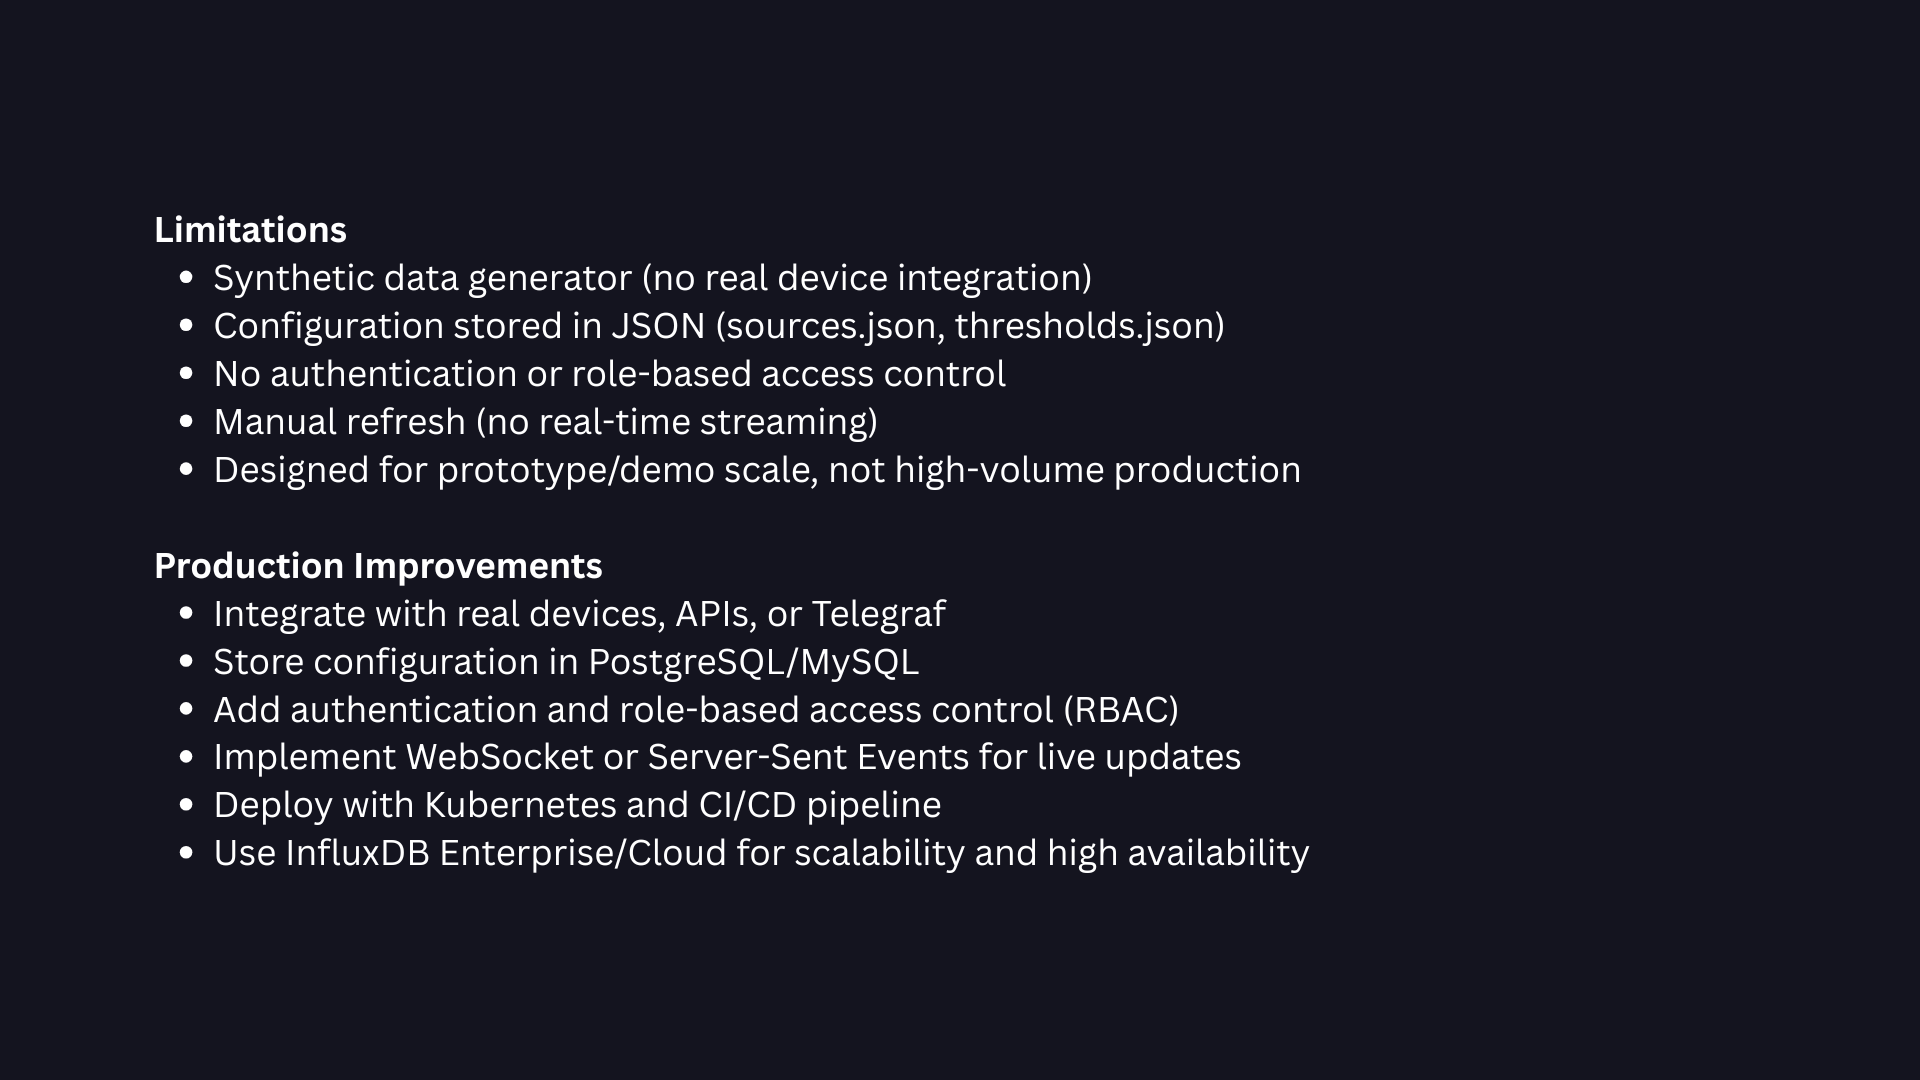
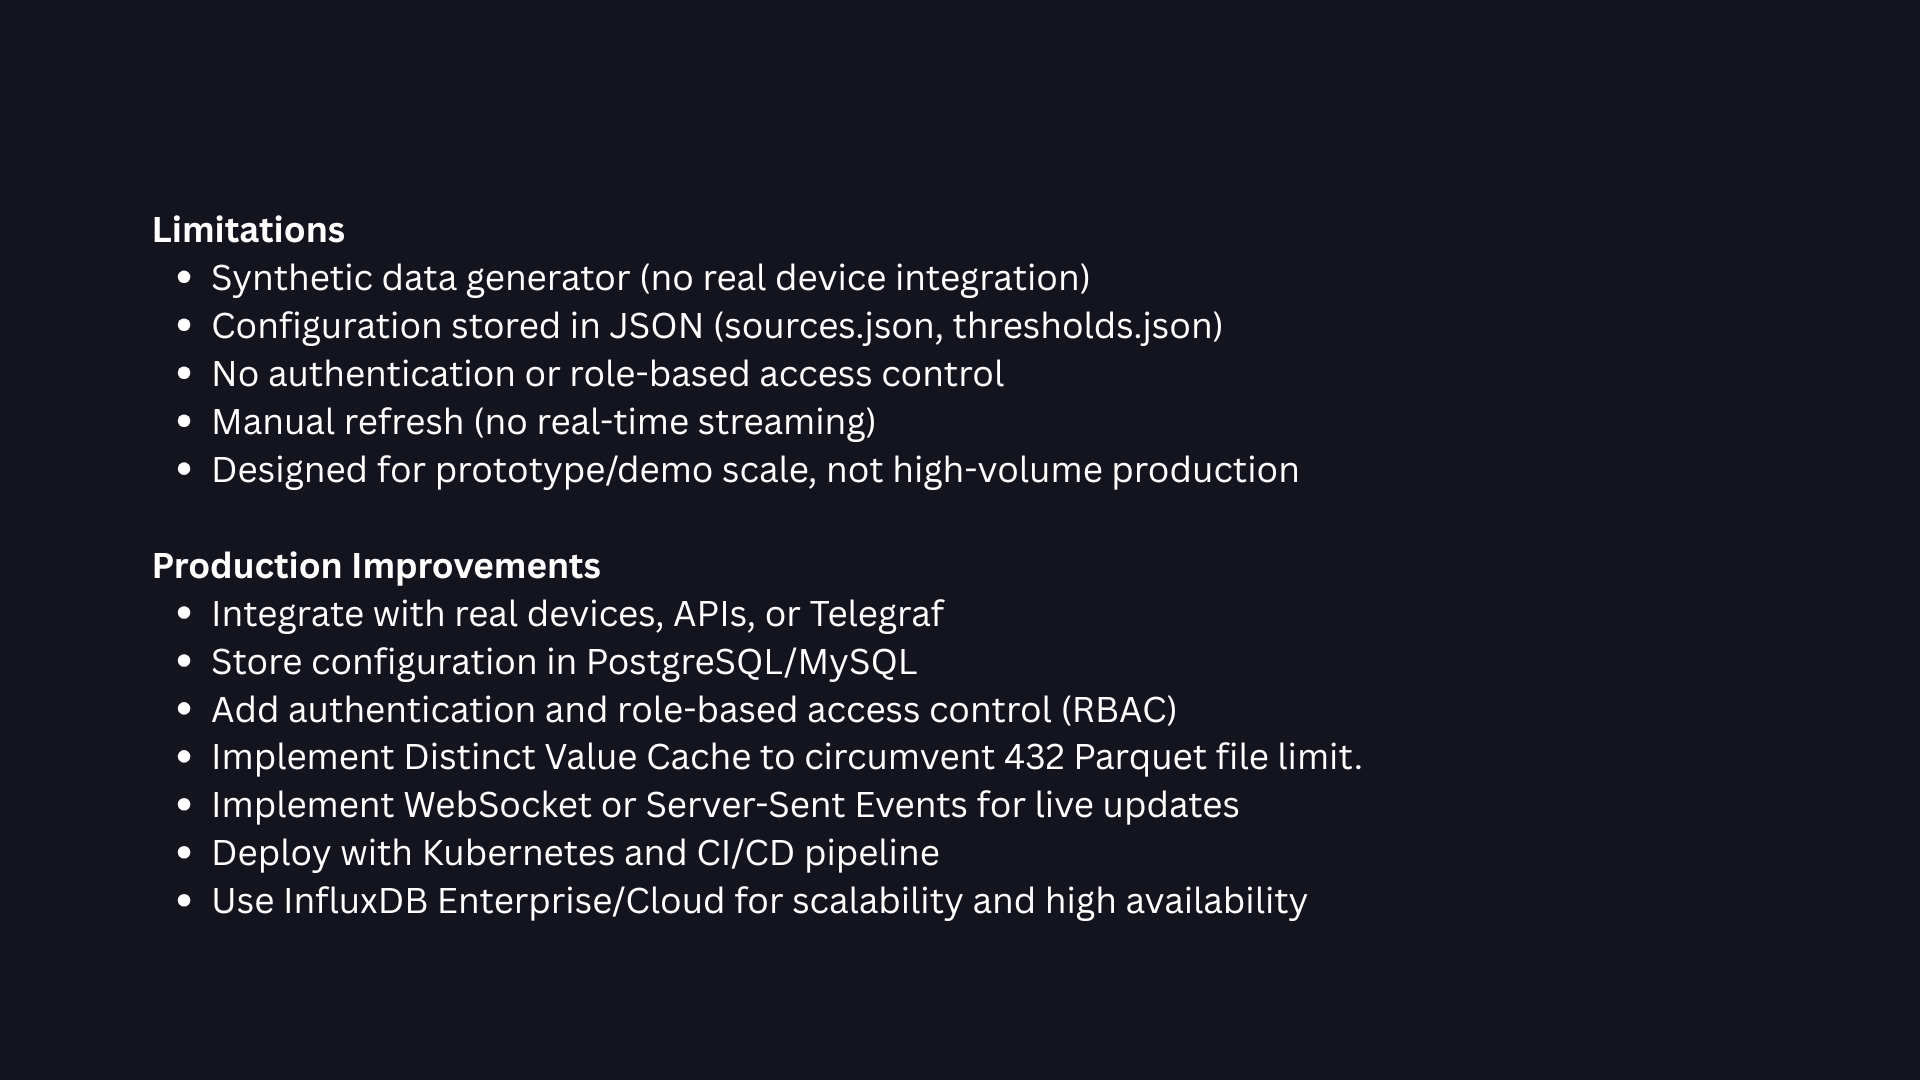
docs

Changed region(s): [[0.0938, 0.5194, 0.6875, 0.8556], [0.0938, 0.1833, 0.6875, 0.4583]]

diff --git a/backend/app/__init__.py b/backend/app/__init__.py
@@ -1,0 +1,1 @@
+# pyrefly: ignore [missing-import]

diff --git a/backend/app/routers/__init__.py b/backend/app/routers/__init__.py
@@ -1,0 +1,1 @@
+# pyrefly: ignore [missing-import]